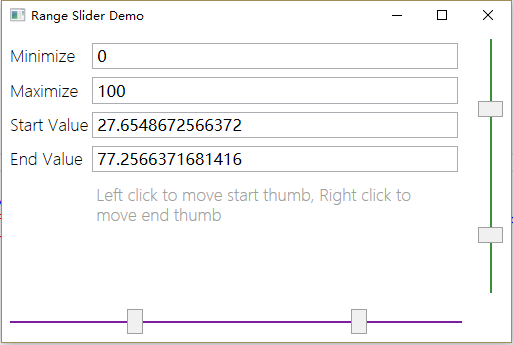
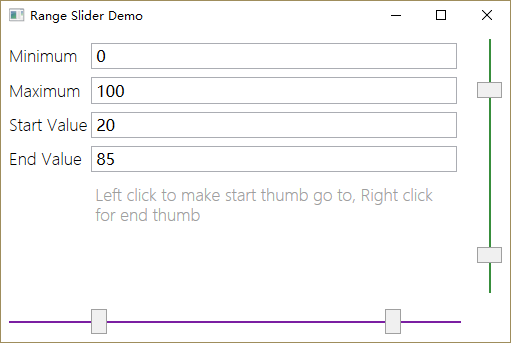
screenshot

Changed region(s): [[0.0, 0.0, 1.0, 1.0], [0.9393, 0.0292, 0.9687, 0.0583], [0.8513, 0.0292, 0.8806, 0.0583]]

diff --git a/RangeSlider/RangeSlider/MainWindow.xaml b/RangeSlider/RangeSlider/MainWindow.xaml
@@ -42,10 +42,10 @@
                 <RowDefinition Height="Auto"/>
             </Grid.RowDefinitions>
 
-            <TextBlock Grid.Row="0" Grid.Column="0">Minimize</TextBlock>
+            <TextBlock Grid.Row="0" Grid.Column="0">Minimum</TextBlock>
             <TextBox Grid.Row="0" Grid.Column="1" Text="{Binding Min, RelativeSource={RelativeSource AncestorType=Window}}"/>
 
-            <TextBlock Grid.Row="1" Grid.Column="0">Maximize</TextBlock>
+            <TextBlock Grid.Row="1" Grid.Column="0">Maximum</TextBlock>
             <TextBox Grid.Row="1" Grid.Column="1" Text="{Binding Max, RelativeSource={RelativeSource AncestorType=Window}}"/>
 
             <TextBlock Grid.Row="2" Grid.Column="0">Start Value</TextBlock>
@@ -55,7 +55,7 @@
             <TextBox Grid.Row="3" Grid.Column="1" Text="{Binding End, RelativeSource={RelativeSource AncestorType=Window}}"/>
 
             <TextBlock Grid.Row="4" Grid.Column="1" TextWrapping="WrapWithOverflow" Padding="8" Foreground="#9E9E9E">
-                Left click to move start thumb, Right click to move end thumb
+                Left click to make start thumb go to, Right click for end thumb
             </TextBlock>
         </Grid>
 
